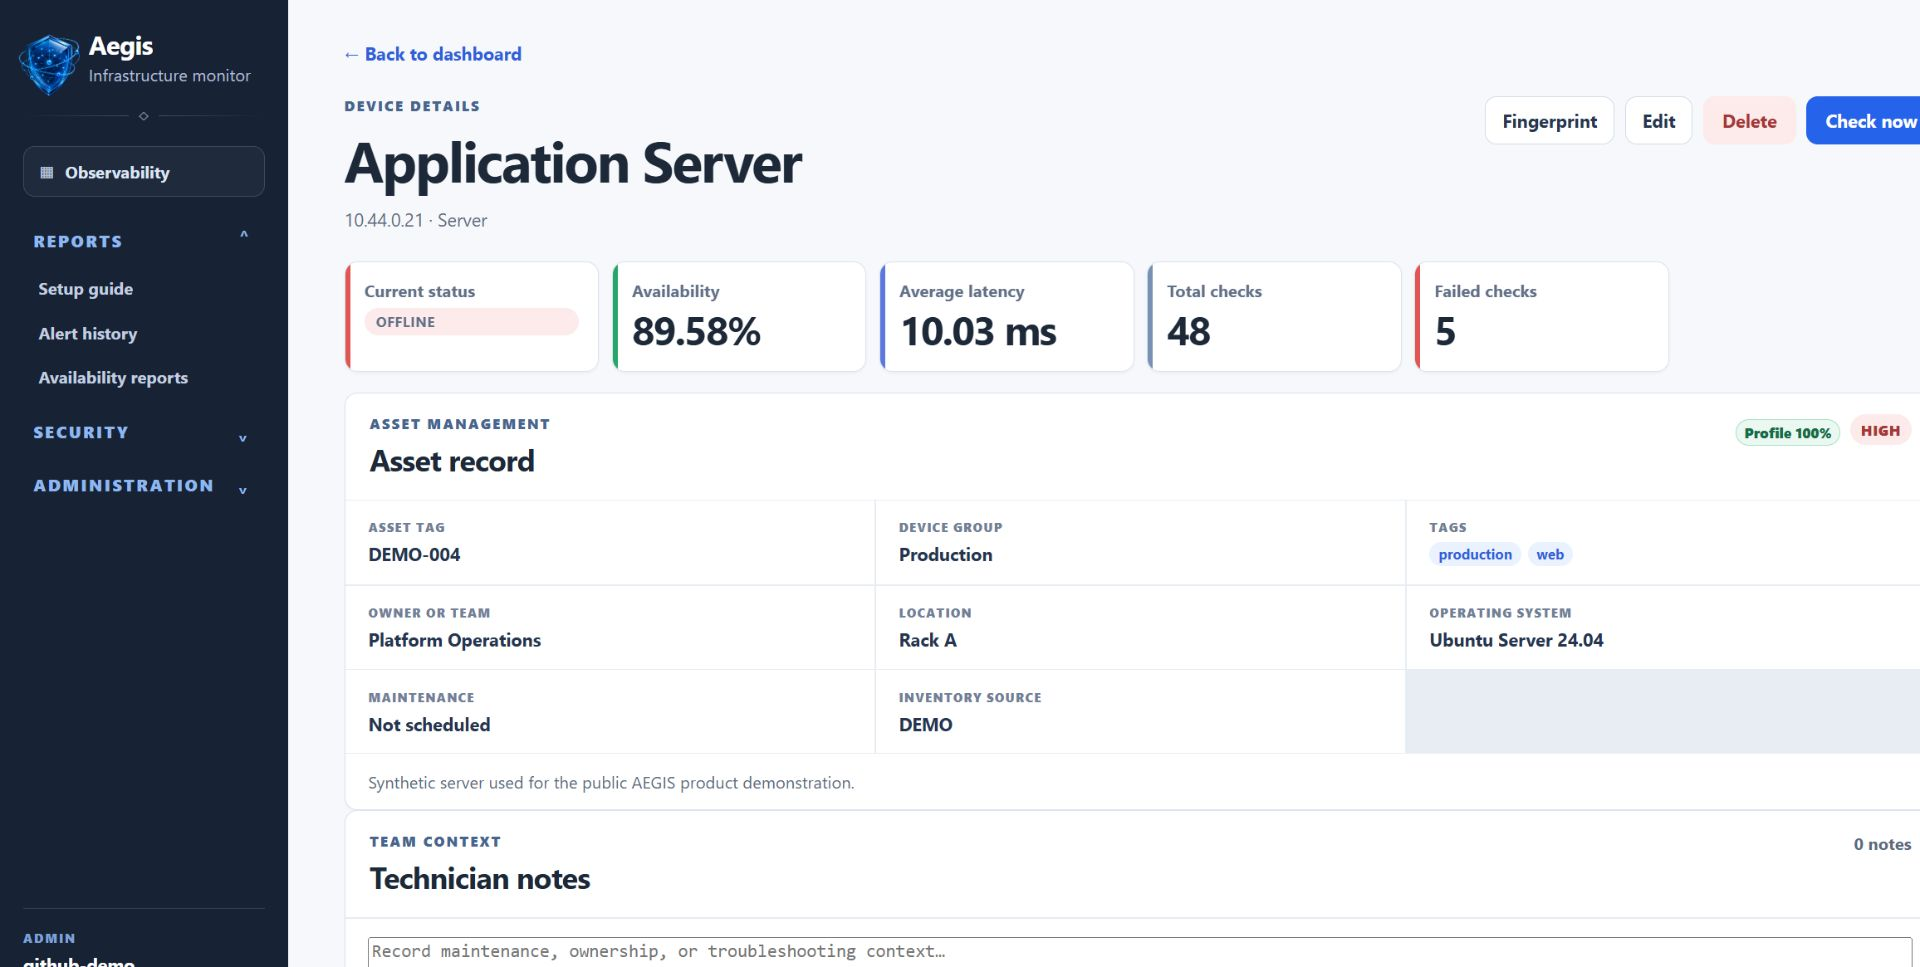
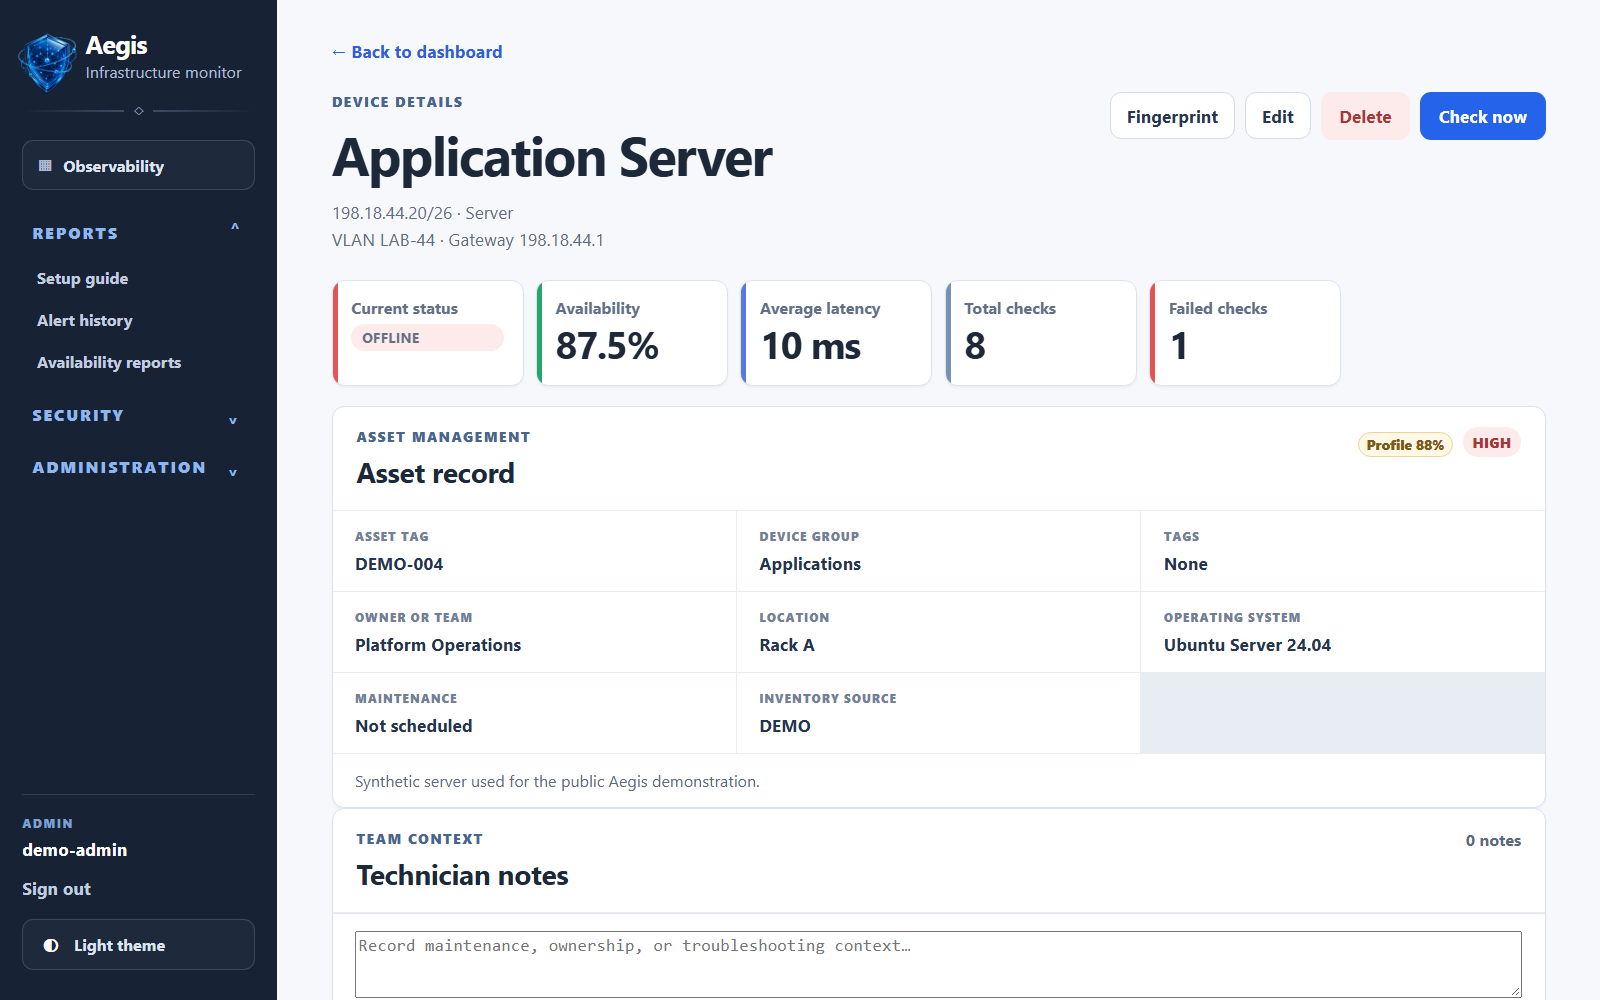
Refresh README network validation screenshots

diff --git a/README.md b/README.md
@@ -22,6 +22,7 @@ Register a device → Observe health → Assess exposure → Prioritize evidence
 | Investigate one device | **Device record** | Monitoring history, services, telemetry, notes, findings, and asset context. |
 | Run a repeatable security review | **Security workbench → Assessment** | A saved four-step assessment with network, service, mDNS, CVE, and DNS evidence. |
 | Run one specific network test | **Assessment → Manual checks** | A bounded Nmap, TCP, traceroute, DNS, TLS, web, or SMB result. |
+| Validate a device's network path | **Device record → Network validation** | Configured subnet context, ordered troubleshooting evidence, and expected source-to-destination TCP reachability. |
 | Refresh local vulnerability intelligence | **Security workbench → CVE mirror** | Integrity-checked NVD CVE and CPE applicability data for local matching. |
 | Confirm that Aegis itself is ready | **Administration → System status** | Database, scheduler, integrations, and supporting-tool readiness. |
 
@@ -53,7 +54,7 @@ Measured API improvements, request budgets and regression checks are documented 
 | Inventory health | Identifies incomplete asset records so operators can improve ownership, classification, and support information. |
 | Service-health overview | Summarizes monitored TCP, HTTP, and HTTPS services and exposes unhealthy checks without opening each device. |
 | Remote-agent fleet | Summarizes enrolled collectors as waiting, reporting, delayed, or offline and prioritizes stale agents. |
-| Logical topology | Groups devices by VLAN and subnet, shows inferred network relationships, and displays operator-confirmed links separately. |
+| Logical topology | Groups devices by configured subnet prefix and VLAN, labels unknown subnets, and displays operator-confirmed links separately. |
 | Command palette | Opens devices and operational panels from a keyboard-searchable menu using `Ctrl+K` or `Cmd+K`. |
 | Responsive navigation | Provides mobile navigation, fixed desktop navigation, collapsible sections, light and dark themes, readable typography, and keyboard focus states. |
 
@@ -68,13 +69,14 @@ The dashboard refreshes every 15 seconds. **Check all** runs an immediate reacha
 | Function | What it does |
 |---|---|
 | Device management | Creates, edits, views, and deletes monitored devices with normalized IPv4 or IPv6 addresses and duplicate-address protection. |
+| Network placement | Records the actual prefix length, gateway, and VLAN for each device; unknown values remain explicit. |
 | Device groups | Assigns an operational group such as a site, floor, lab, or business unit for filtering and bulk administration. |
 | Device profile | Combines availability statistics, latency history, status transitions, service checks, telemetry, SNMP, alerts, assessments, and agent state on one page. |
 | Notes | Stores timestamped operational notes against a device. |
 | Attachments | Stores validated UTF-8 text, PDF, PNG, and JPEG files up to 5 MiB. Files use randomized storage names and download as attachments. |
 | Activity timeline | Merges important device events into a chronological operational history. |
 | Change history | Records material changes to inventory data for later review. |
-| DHCP import | Allows administrators to import lease information into inventory with validation and duplicate handling. |
+| DHCP import | Allows administrators to import lease information, including optional prefix and gateway fields, with validation and duplicate handling. |
 | CSV export | Exports the complete filtered and sorted inventory as UTF-8 CSV, independent of the current page. |
 | Excel export | Creates a formatted `.xlsx` workbook with typed values, filters, frozen headers, and a formula-driven summary sheet. The Excel library loads only when requested. |
 | Shareable device URLs | Gives every device a direct URL such as `/devices/1` and supports normal browser Back and Forward navigation. |
@@ -83,9 +85,9 @@ The dashboard refreshes every 15 seconds. **Check all** runs an immediate reacha
 
 *Filterable inventory, topology context, and recent monitoring activity.*
 
-![Aegis device profile showing health and asset information](docs/screenshots/03-device-profile.png)
+![Aegis device profile showing health, subnet prefix, gateway, VLAN, and asset information](docs/screenshots/03-device-profile.png)
 
-*Device profile combining live health with the registered asset record.*
+*Device profile combining availability with a synthetic asset record and configured network context.*
 
 ### Availability, services, and alerts
 
@@ -131,6 +133,10 @@ Anomaly results are operational indicators, not diagnoses. Aegis performs this a
 | Wireshark packet analysis | Opens the real Wireshark GUI in an optional Docker sidecar sharing the toolbox's network namespace. Inspect scans, protocol fields and TCP streams, save PCAP/PCAPNG in a dedicated volume, or import host-captured files. Windows physical interfaces are not directly visible. Previous metadata capture records remain available as legacy history. |
 | Remote diagnostics and safe validation | Dispatches only fixed, administrator-approved job types to explicitly enabled agents. Safe simulations include signed callbacks, synthetic credential canaries, password-policy inspection, temporary markers, generated-file activity, benign detection variations, registered-device segmentation probes, and signed non-executable artifacts. Jobs are device-bound, parameter-bounded, expire after 15 minutes, clean up generated data, and cannot contain arbitrary commands. |
 | Wireless status | Reports the local Aegis host's wireless-adapter state without collecting Wi-Fi keys or handshakes. |
+
+![Aegis network validation panel with ordered troubleshooting evidence and a segmentation expectation](docs/screenshots/09-network-validation.png)
+
+*Network validation on synthetic demo devices. Troubleshooting runs from the Aegis host; the segmentation result compares an agent-reported TCP outcome with the expected path. A failed handshake does not identify the cause.*
 
 ![Aegis remote diagnostics panel for bounded agent-side checks](docs/screenshots/04-remote-diagnostics.png)
 
